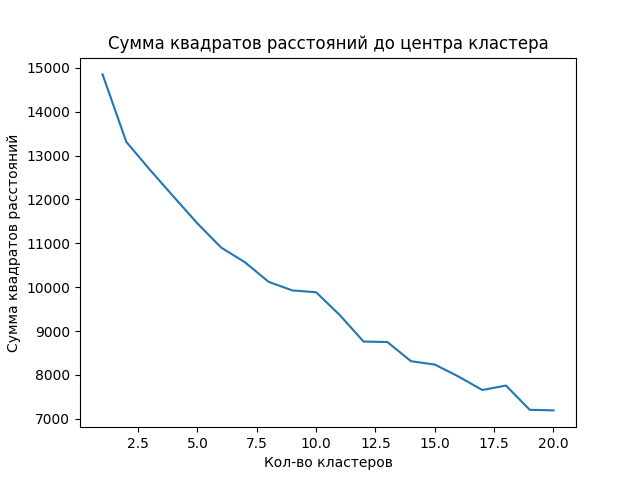
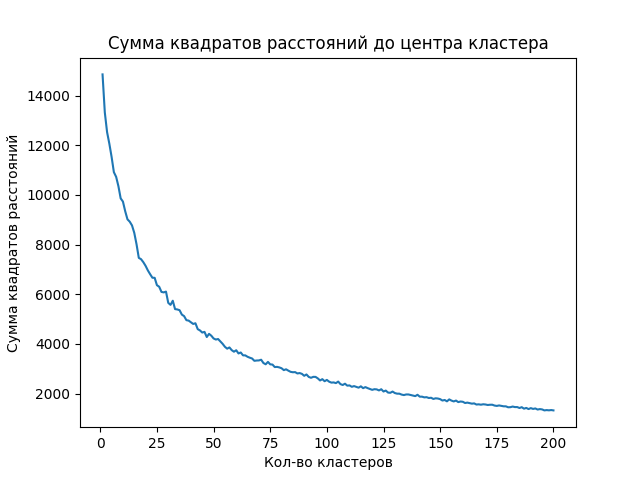
used wider range for elbow method

diff --git a/sklearn_training/clusterization_training.py b/sklearn_training/clusterization_training.py
@@ -36,7 +36,7 @@ os.chdir('./sklearn_training')
 
 # Using elbow method to find optimal number of clusters
 distortions = []
-cluster_range = range(1, 21)
+cluster_range = range(1, 201)
 for k in cluster_range:
     model = KMeans(n_clusters=k)
     model.fit(valid_sentence_vectors)
@@ -49,8 +49,8 @@ plt.ylabel("Сумма квадратов расстояний")
 plt.savefig('elbow.png')
 
 # Training clustering model
-# considering that the best number of clusters is 7
-kmeans = KMeans(n_clusters=7, random_state=42)
+# considering that the best number of clusters is 30
+kmeans = KMeans(n_clusters=30, random_state=42)
 kmeans.fit(valid_sentence_vectors)
 cluster_labels = kmeans.labels_
 
